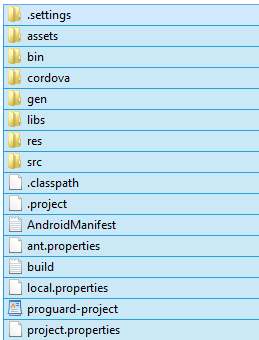
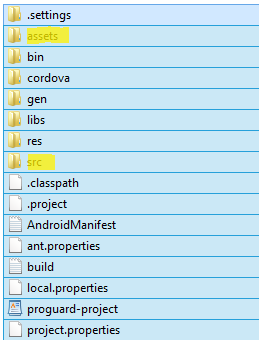
Updated site files css. Cleaned up png file. Added more content to html files.

Changed region(s): [[0.0927, 0.0588, 0.278, 0.1471], [0.0927, 0.4412, 0.2162, 0.5]]

diff --git a/phonegap.html b/phonegap.html
@@ -35,7 +35,7 @@
     </div>
     <!-- /navbar-inner -->
 </div>
-<div class='row-fluid'>
+<div class='row-fluid' style="background-color: darkgray">
     <div class='hero-unit'>
         <header>
             <h1 class=''>PhoneGap</h1>
@@ -50,23 +50,30 @@
             <ul class="nav nav-tabs">
                 <li class="active"><a href="#tab1" data-toggle="tab">PhoneGap first steps</a></li>
                 <li><a href="#tab2" data-toggle="tab">Simple hello world</a></li>
+                <li><a href="#tab3" data-toggle="tab">Adding jQuery</a></li>
+                <li><a href="#tab4" data-toggle="tab">Adding jMobile</a></li>
+                <li class="dropdown">
+                    <a href="#" class="dropdown-toggle" data-toggle="dropdown">Some Fun Libraries You Can Use <b class="caret"></b></a>
+                    <ul class="dropdown-menu">
+                        <li><a href="#dropdown1" data-toggle="tab">Twitter Bootstrap</a></li>
+                        <li><a href="#dropdown2" data-toggle="tab">Backbone</a></li>
+                        <li><a href="#dropdown2" data-toggle="tab">Raphael</a></li>
+                    </ul>
+                </li>
+                <li><a href="#tab6" data-toggle="tab">Custom Java Code</a></li>
             </ul>
             <div class="tab-content">
                 <div class="tab-pane active" id="tab1">
-                    <p>
-                        The first step to getting PhoneGap up and running is proper installation.
-                        Follow the instructions that can be found here: <a
-                            href="http://docs.phonegap.com/en/2.6.0/guide_getting-started_android_index.md.html#Getting%20Started%20with%20Android">Installation
-                        instructions</a>
-                        <br/>
-                        At this point you should have an application running on your device, I am using an Android
-                        device
-                        but this should hold true
+                    <p class="nicetext">
+                        The first step to getting PhoneGap up and running is proper installation. Follow the instructions that can be found here:
+                        <a href="http://docs.phonegap.com/en/2.6.0/guide_getting-started_android_index.md.html#Getting%20Started%20with%20Android">Installation
+                        instructions</a>. At this point you should have an application running on your device, I am using an Android device but this should hold true
                         for any device that is supported.
-                        <br/>
-                        Let's look at the directory generated by the tool:<br>
+                    </p>
+                    <p class="nicetext">
+                    Let's look at two directories in particular that are generated by the tool:<br>
                         <img style="margin: 2%" src="./assets/images/phonegap-directory.png" class="img-polaroid">
-                        <br>
+                    </p>
                         There are a few files generated by the tool that a worth a closer look:
 
                     <div class="accordion" id="accordion2">
@@ -74,12 +81,17 @@
                             <div class="accordion-heading">
                                 <a class="accordion-toggle" data-toggle="collapse" data-parent="#accordion2"
                                    href="#collapseOne">
-                                    Collapsible Group Item #1
+                                    src
                                 </a>
                             </div>
                             <div id="collapseOne" class="accordion-body collapse in">
                                 <div class="accordion-inner">
-                                    Anim pariatur cliche...
+                                    <p class="nicetext">
+                                        Contained in this directory is the startup source file for PhoneGap.
+                                        Written in Java, you can modify the code in this file to access the java layer used by PhoneGap.
+                                        This file can also contain code that loads custom Java code that your script can use. More on this later as
+                                        well as an example.
+                                    </p>
                                 </div>
                             </div>
                         </div>
@@ -87,7 +99,7 @@
                             <div class="accordion-heading">
                                 <a class="accordion-toggle" data-toggle="collapse" data-parent="#accordion2"
                                    href="#collapseTwo">
-                                    Collapsible Group Item #2
+                                    assets
                                 </a>
                             </div>
                             <div id="collapseTwo" class="accordion-body collapse">

diff --git a/index.html b/index.html
@@ -23,8 +23,8 @@
                 <ul class="nav">
                     <li class="active"><a href="index.html">Home</a></li>
                     <li class="active"><a href="phonegap.html">PhoneGap</a></li>
-                    <li class="active"><a href="#">C#</a></li>
-                    <li class="active"><a href="#">Javascript</a></li>
+                    <li class="active"><a href="#">C# Examples</a></li>
+                    <li class="active"><a href="#">Javascript Examples</a></li>
                 </ul>
             </div>
             <form class="navbar-search pull-left">

diff --git a/assets/css/style.css b/assets/css/style.css
@@ -127,6 +127,21 @@ img.repo-author-logo {
 	margin-right: 15px;
 }
 
+/*
+First line flush left
+Subsequently 1em indent, ragged right, ½ lead boundary
+*/
+
+p.nicetext {
+    font-size: 1em;
+    line-height: 1.25em;
+    margin: 0.625em;
+    text-align: left;
+}
+p.nicetext + p.nicetext {
+    text-indent: 1em;
+}
+
 /* Media queries */
 /* Hide the ribbon when we are on a phone, screen is too small */
 @media only screen and (max-width: 479px) {
